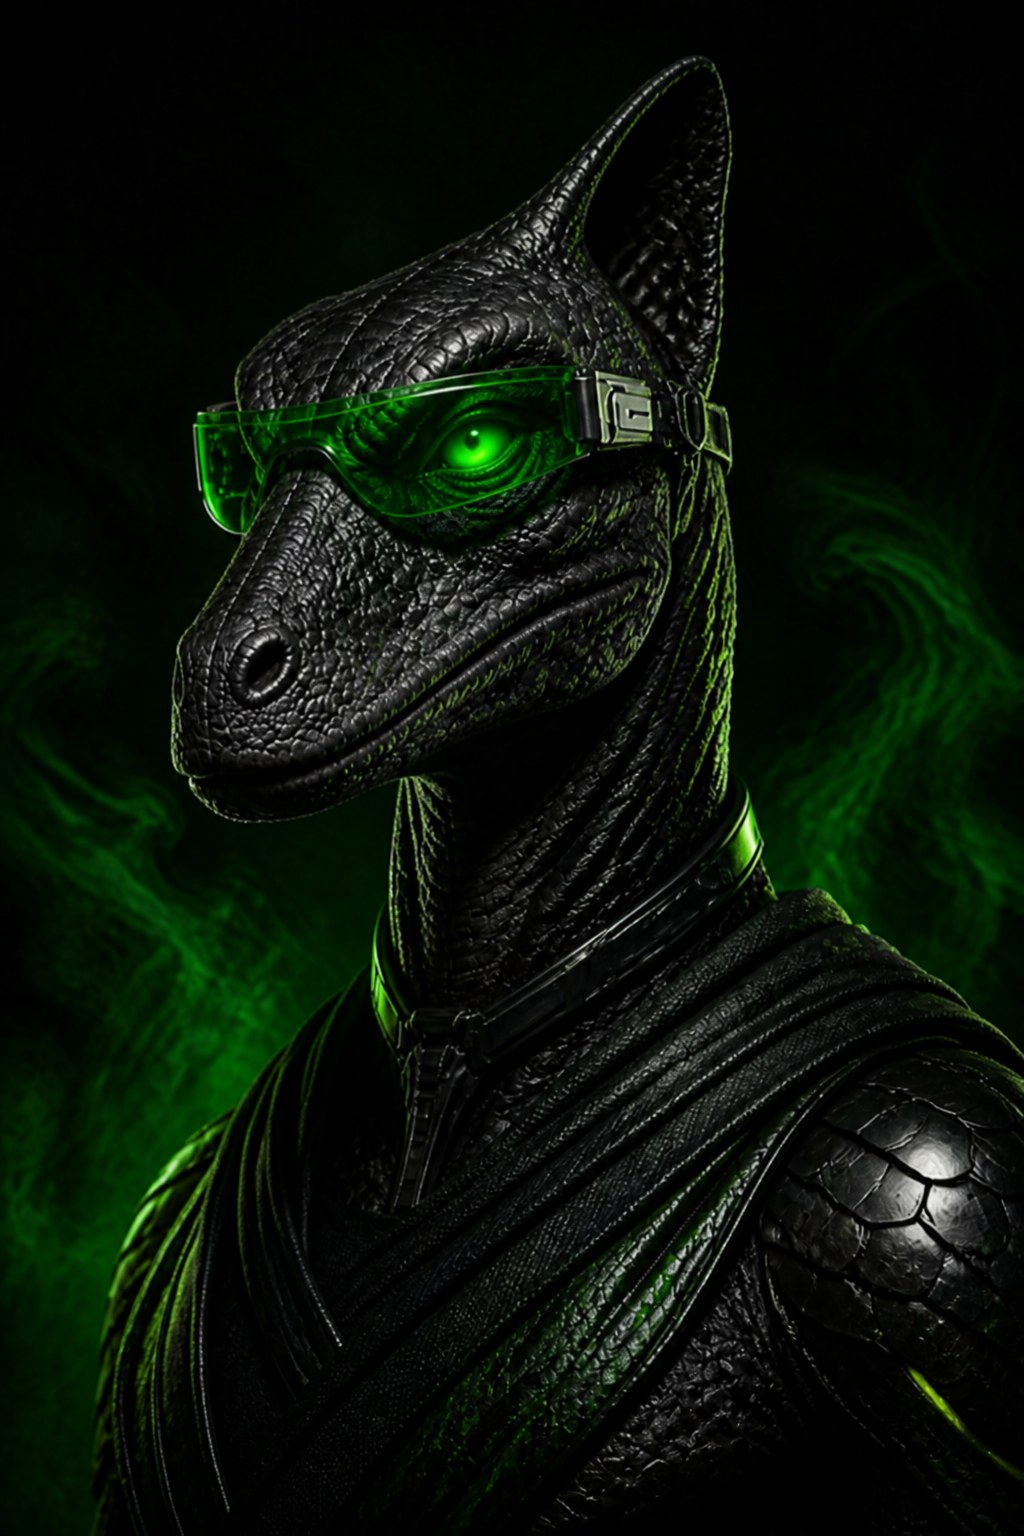
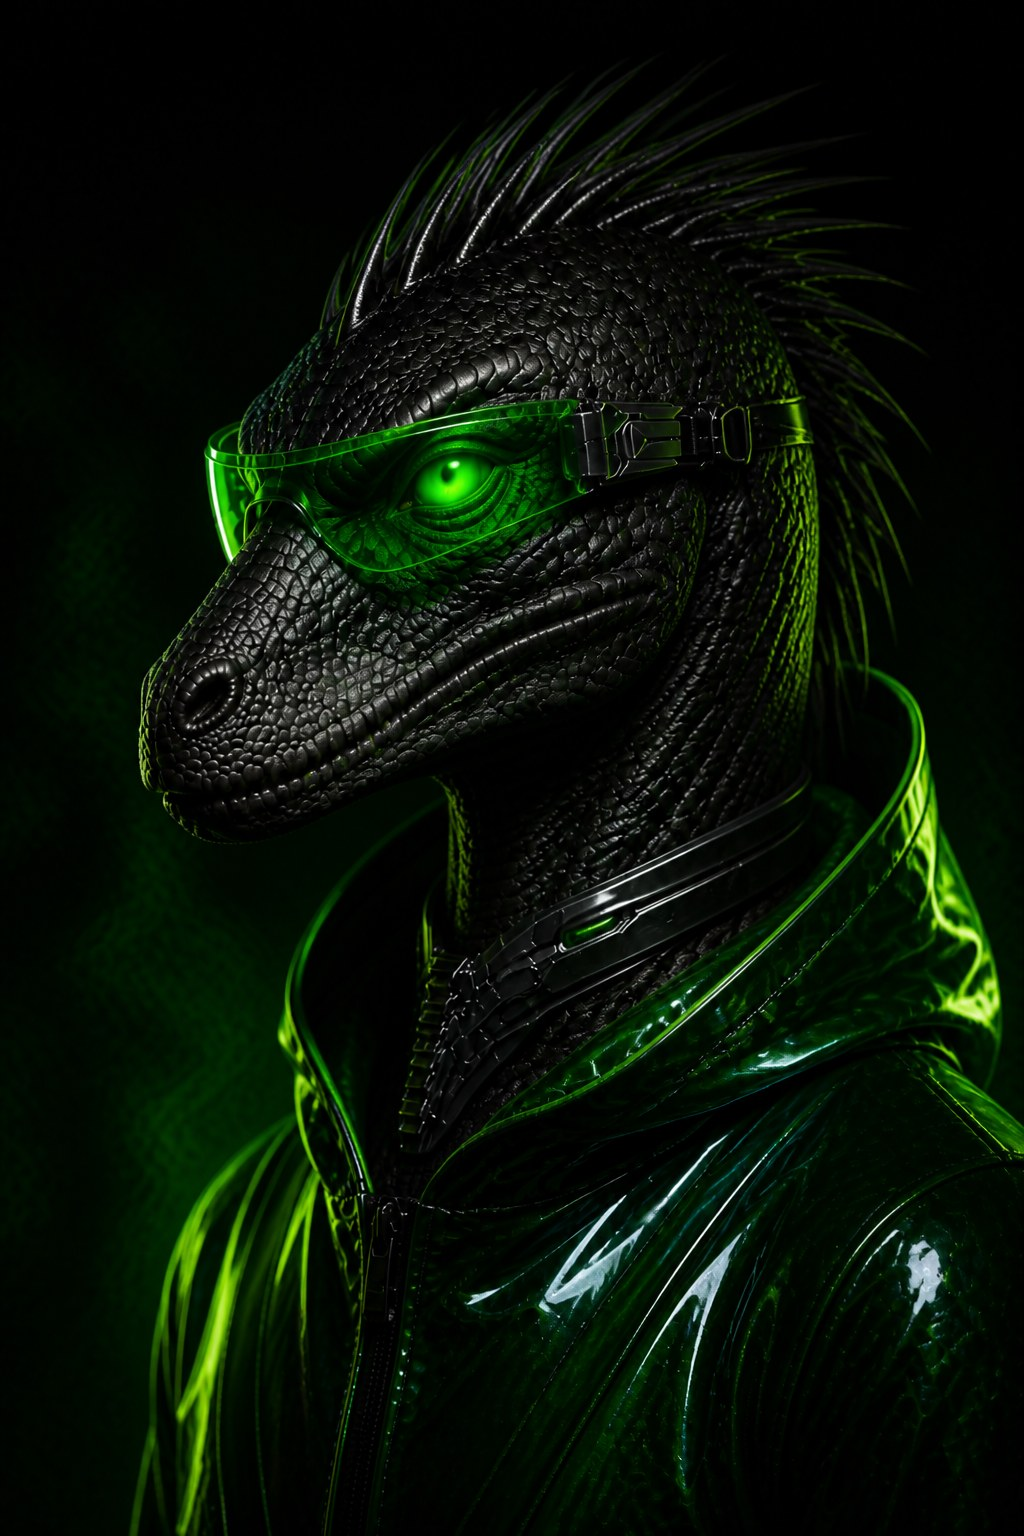
Redesign Void Claw from user raptor concepts in site style
Rebuild Void Claw using the uploaded apex-raptor ideas as anatomy
and fashion cues, while matching the existing Genome Noir specimen
portrait language (chest-up studio framing, glossy biotech styling).

diff --git a/app.js b/app.js
@@ -22,7 +22,7 @@ const SPECIES = {
   "void-claw": {
     id: "void-claw", name: "Void Claw", painted: "Void Claw", ghost: "VOID CLAW",
     img: "assets/void-claw.jpg",
-    alt: "Void Claw — a photorealistic biotech-enhanced apex raptor with charcoal void-scale skin, venom-green neuro-visor and slim stealth collar",
+    alt: "Void Claw — a photorealistic biotech-enhanced apex velociraptor with charcoal void-scale skin, black quill crest, venom-green neuro-visor and glossy shadow-bioplate fashion",
     ac: "#86f000", ac2: "#1f7a3d", ac3: "#d8ffb0",
     specimen: "GN-0092",
     base: "APEX RAPTOR",
@@ -34,7 +34,7 @@ const SPECIES = {
     adaptClass: "APEX_RAPTOR",
     stability: 91, rarity: "ULTRA RARE",
     status: "FLAGSHIP SPECIMEN",
-    blurb: "A stealth-engineered apex raptor. Void Claw reads micro-motion through its neuro-visor, moves like a shadow, and treats every corridor as hunting ground.",
+    blurb: "A fashion-engineered apex raptor. Void Claw tracks micro-motion through its neuro-visor, wears shadow bioplate like couture, and treats every corridor as hunting ground.",
   },
   nova: {
     id: "nova", name: "Aathira\u2019s Nova", painted: "Nova", ghost: "NOVA",

diff --git a/index.html b/index.html
@@ -50,7 +50,7 @@
     <div class="hero-glow" aria-hidden="true"></div>
     <figure class="render-slot hero-render turntable" id="heroRender" data-render-slot="hero">
       <!-- Prototype render slot: swap src for a commissioned/generated creature render -->
-      <img src="assets/turntable/void-claw-0.jpg" alt="Void Claw — a luxurious photorealistic biotech-enhanced apex raptor with charcoal void-scale skin, venom-green neuro-visor and stealth collar, lit by toxic green rim light on a black background" id="heroImgA" class="tt-frame is-front" fetchpriority="high" decoding="async" />
+      <img src="assets/turntable/void-claw-0.jpg" alt="Void Claw — a luxurious photorealistic biotech-enhanced apex velociraptor with charcoal void-scale skin, black quill crest, venom-green neuro-visor and glossy biotech jacket, lit by toxic green rim light on a black background" id="heroImgA" class="tt-frame is-front" fetchpriority="high" decoding="async" />
       <img src="assets/turntable/void-claw-1.jpg" alt="" id="heroImgB" class="tt-frame" aria-hidden="true" decoding="async" />
       <div class="scanline" aria-hidden="true"></div>
       <div class="render-vignette" aria-hidden="true"></div>
